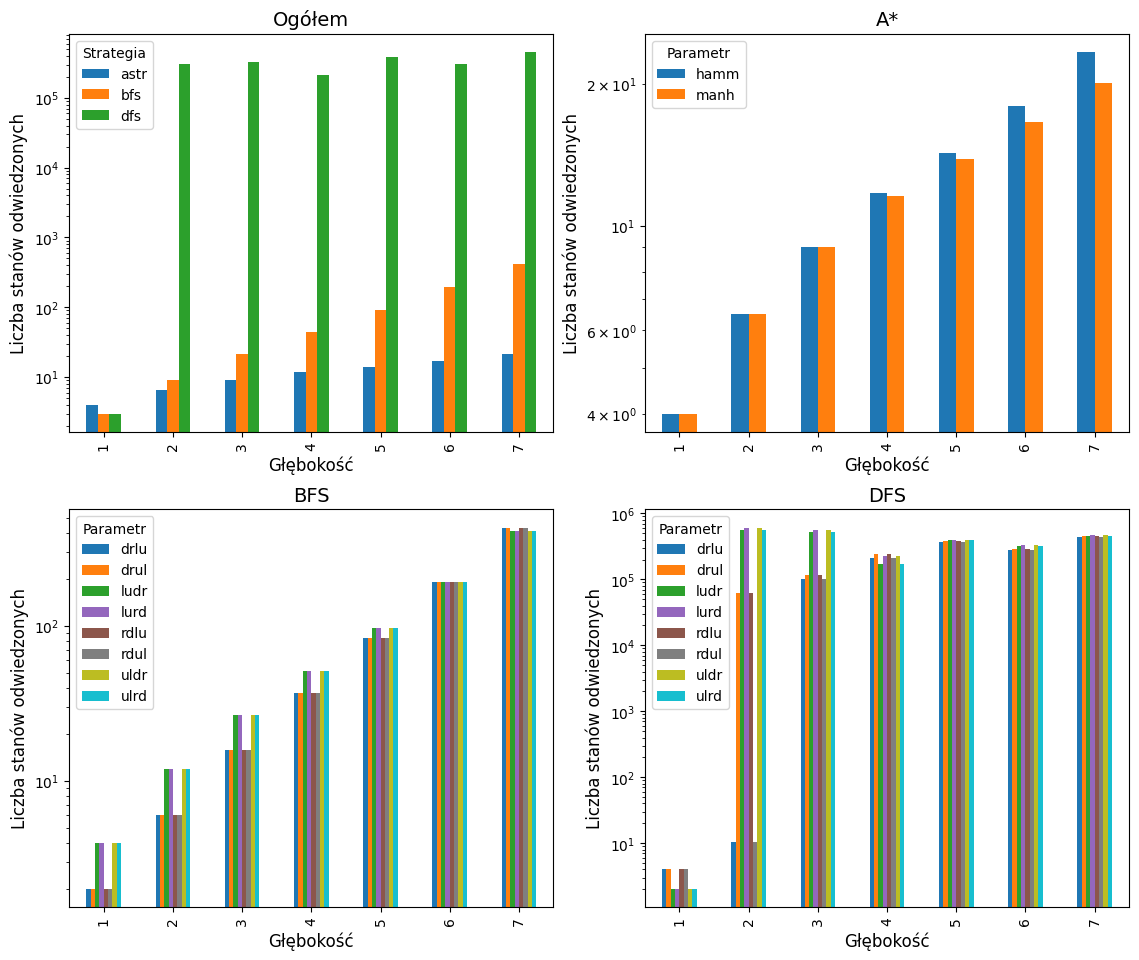
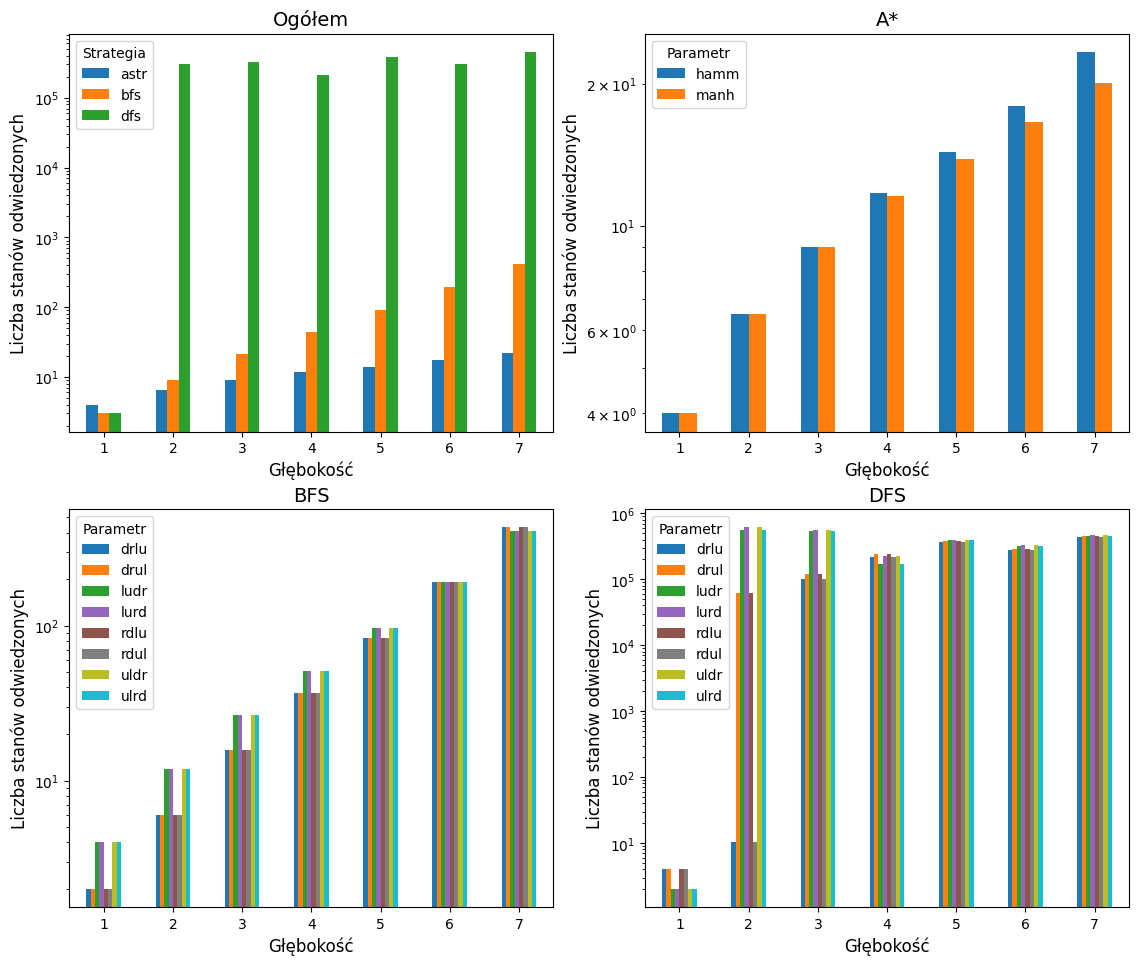
rot added

diff --git a/zadanie_1/charts.py b/zadanie_1/charts.py
@@ -32,7 +32,7 @@ for kolumna, (tytul_osi_y, log_scale) in kryteria.items():
     figure, axes = plt.subplots(figsize=(12, 10), nrows=2, ncols=2)
     plt.tight_layout(pad=3.5)
 
-    dane_ogolem.plot(kind='bar', ax=axes[0, 0])
+    dane_ogolem.plot(kind='bar', ax=axes[0, 0], rot=0)
     axes[0, 0].set_title('Ogółem', fontsize=14)
     axes[0, 0].set_xlabel('Głębokość', fontsize=12)
     axes[0, 0].set_ylabel(tytul_osi_y, fontsize=12)
@@ -40,7 +40,7 @@ for kolumna, (tytul_osi_y, log_scale) in kryteria.items():
     if log_scale:
         axes[0, 0].set_yscale('log')
 
-    dane_astr.plot(kind='bar', ax=axes[0, 1])
+    dane_astr.plot(kind='bar', ax=axes[0, 1], rot=0)
     axes[0, 1].set_title('A*', fontsize=14)
     axes[0, 1].set_xlabel('Głębokość', fontsize=12)
     axes[0, 1].set_ylabel(tytul_osi_y, fontsize=12)
@@ -48,7 +48,7 @@ for kolumna, (tytul_osi_y, log_scale) in kryteria.items():
     if log_scale:
         axes[0, 1].set_yscale('log')
 
-    dane_bfs.plot(kind='bar', ax=axes[1, 0], colormap='tab10')
+    dane_bfs.plot(kind='bar', ax=axes[1, 0], colormap='tab10', rot=0)
     axes[1, 0].set_title('BFS', fontsize=14)
     axes[1, 0].set_xlabel('Głębokość', fontsize=12)
     axes[1, 0].set_ylabel(tytul_osi_y, fontsize=12)
@@ -56,7 +56,7 @@ for kolumna, (tytul_osi_y, log_scale) in kryteria.items():
     if log_scale:
         axes[1, 0].set_yscale('log')
 
-    dane_dfs.plot(kind='bar', ax=axes[1, 1], colormap='tab10')
+    dane_dfs.plot(kind='bar', ax=axes[1, 1], colormap='tab10', rot=0)
     axes[1, 1].set_title('DFS', fontsize=14)
     axes[1, 1].set_xlabel('Głębokość', fontsize=12)
     axes[1, 1].set_ylabel(tytul_osi_y, fontsize=12)
